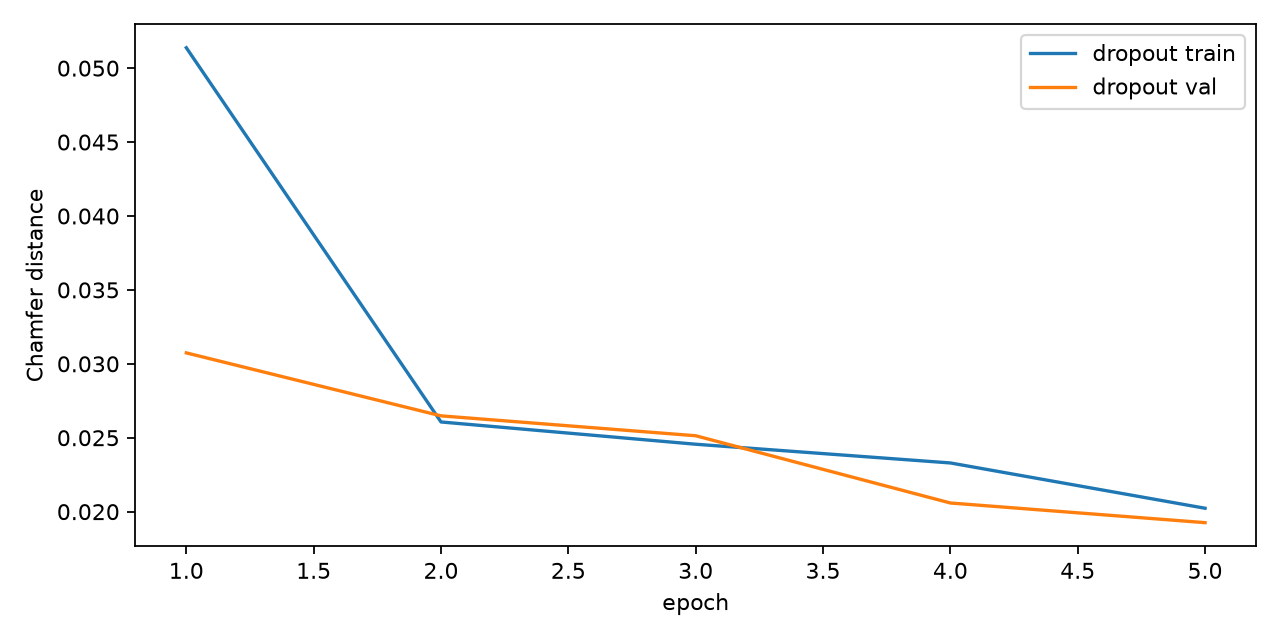
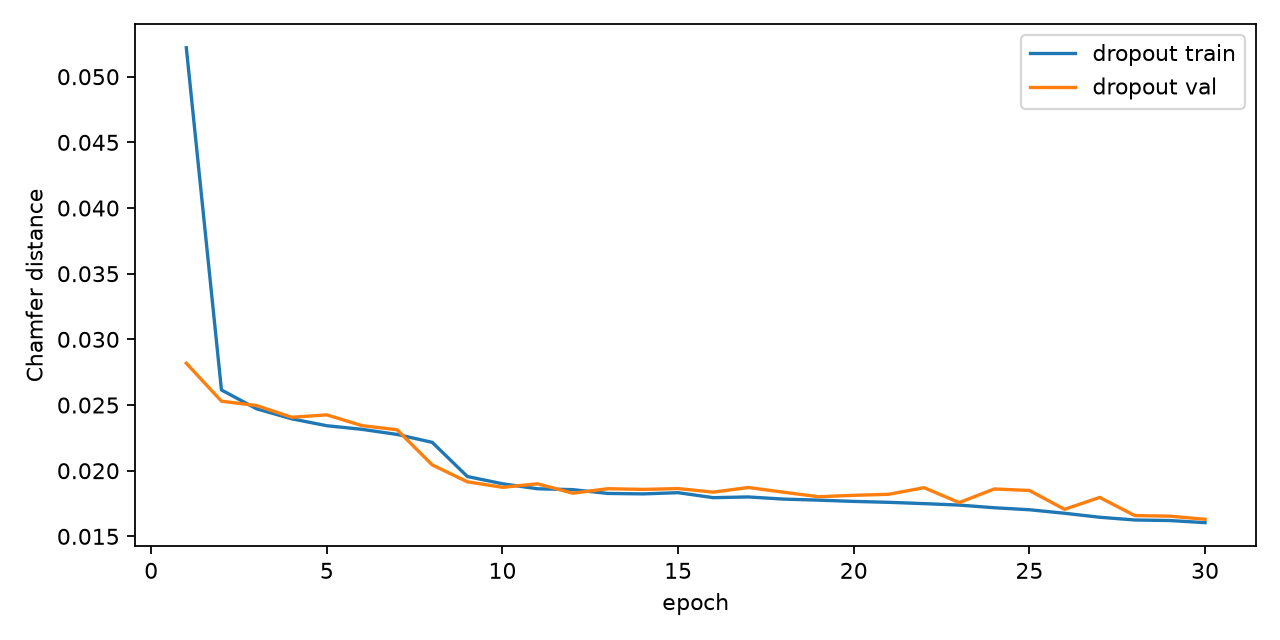
Add ONNX export and config scripts, update GCN results
- export_onnx.py: export the GCN autoencoder to ONNX and check it against PyTorch
- make_config.py: threshold, example IFC files and config.json for the model
- Both find the repo root without __file__, so they also run as notebook cells
- Re-run notebook: updated threshold, metrics and training curves

diff --git a/01_autoencoder/src/make_config.py b/01_autoencoder/src/make_config.py
@@ -1,0 +1,106 @@
+"""Compute the threshold, copy example IFC files and write 01_autoencoder/model/config.json.
+
+Run after export_onnx.py:  python 01_autoencoder/src/make_config.py  (or paste into a notebook cell)
+"""
+
+import json
+import shutil
+import sys
+from pathlib import Path
+
+import numpy as np
+import onnxruntime as ort
+import pandas as pd
+
+# Repo root: __file__ does not exist in a notebook, so walk up from the current folder instead
+try:
+    start = Path(__file__).resolve().parent
+except NameError:
+    start = Path.cwd().resolve()
+REPO = next(p for p in [start, *start.parents] if (p / "01_autoencoder" / "src").is_dir())
+sys.path.insert(0, str(REPO / "01_autoencoder" / "src"))
+import ifc_graph
+from graph_autoencoder import LazyGraphDataset
+
+DATA = REPO / "data"
+OUT = REPO / "01_autoencoder" / "model"
+ANOM = ["IfcStair", "IfcRailing"]       # same anomaly classes as the notebook
+SCORE_POINTS = 256                      # notebook compares the first 256 points (LOSS_POINTS)
+
+sess = ort.InferenceSession(str(OUT / "model.onnx"), providers=["CPUExecutionProvider"])
+split = pd.read_csv(REPO / "01_autoencoder" / "splits" / "ifc_split.csv")
+
+
+def chamfer(a, b):
+    """Chamfer distance: for each point, distance to the closest point of the other cloud (both ways)."""
+    d = ((a[:, None, :] - b[None, :, :]) ** 2).sum(-1)
+    return float(d.min(1).mean() + d.min(0).mean())
+
+
+def run_graph(g):
+    """graph -> ONNX -> (score, latent)."""
+    recon, z = sess.run(None, {"x": g.x.numpy().astype(np.float32),
+                               "edge_index": g.edge_index.numpy().astype(np.int64)})
+    s = chamfer(recon.reshape(-1, 3)[:SCORE_POINTS], g.pos.numpy()[:SCORE_POINTS])
+    return s, z[0]
+
+
+# 1) Threshold = 95th percentile of the score on NORMAL validation objects
+normal_val_ids = split.loc[(split["split"] == "val") & ~split["ifc_class"].isin(ANOM), "object_id"]
+val = LazyGraphDataset(DATA / "ifc_graphs" / "val.pt", normal_val_ids)   # builds one graph at a time
+normal_scores = np.array([run_graph(val[i])[0] for i in range(len(val))])
+thr = float(np.quantile(normal_scores, 0.95))
+print(f"threshold (95th pct of {len(normal_scores)} normal val objects): {thr:.6f}")
+
+# 2) Three example IFC files from the TEST set: 2 normal + 1 anomaly
+ex_dir = OUT / "examples"
+ex_dir.mkdir(parents=True, exist_ok=True)
+for f in ex_dir.glob("*.ifc"):
+    f.unlink()
+test = split[split["split"] == "test"].sort_values("object_id")
+for cls, kind in [("IfcDoor", "normal"), ("IfcWall", "normal"), ("IfcStair", "anomaly")]:
+    row = test[test["ifc_class"] == cls].iloc[0]
+    shutil.copy(DATA / row["path"], ex_dir / f"{kind}_{cls}.ifc")
+
+# 3) config.json: everything the server needs
+from importlib.metadata import version, PackageNotFoundError
+
+
+def pkg_version(name):
+    try:
+        return version(name)
+    except PackageNotFoundError:
+        return "not installed"
+
+
+cfg = {
+    "model_file": "model.onnx",
+    "model_name": "GCN graph autoencoder (data/gcn_autoencoder.pt)",
+    "inputs": {"x": "[1024, 3] float32, normalised xyz of the points",
+               "edge_index": "[2, 16384] int64, kNN edges (16 neighbours)"},
+    "outputs": {"reconstruction": "[1, 1024, 3]", "latent": f"[1, {sess.get_outputs()[1].shape[-1]}]"},
+    "preprocessing": {
+        "function": "ifc_graph.ifc_to_graph(path)",
+        "n_points": ifc_graph.N_POINTS,
+        "k_neighbours": ifc_graph.K_NEIGHBOURS,
+        "seed": ifc_graph.SEED,
+        "notes": "IFC -> mesh in world coordinates -> sample points -> centre + scale -> kNN graph",
+    },
+    "score": "Chamfer distance between reconstruction and input points (first 256 points)",
+    "score_points": SCORE_POINTS,
+    "threshold": thr,
+    "threshold_rule": "95th percentile of the score on normal validation objects",
+    "decision": "score > threshold -> 'unusual object, check it'",
+    "anomaly_classes_used_in_eval": ANOM,
+    "built_with": {"python": sys.version.split()[0], "torch": pkg_version("torch"),
+                   "torch_geometric": pkg_version("torch_geometric"),
+                   "ifcopenshell": ifc_graph.ifcopenshell.version, "onnxruntime": ort.__version__,
+                   "gradio": pkg_version("gradio"), "numpy": np.__version__},
+}
+(OUT / "config.json").write_text(json.dumps(cfg, indent=2))
+print("saved", OUT / "config.json")
+
+# 4) Full check from the raw IFC file (same path as the server)
+for f in sorted(ex_dir.glob("*.ifc")):
+    s, z = run_graph(ifc_graph.ifc_to_graph(f))
+    print(f"{f.name:25s} score {s:.6f}  {'UNUSUAL' if s > thr else 'ok'}   latent size {len(z)}")

diff --git a/01_autoencoder/src/export_onnx.py b/01_autoencoder/src/export_onnx.py
@@ -1,0 +1,79 @@
+"""Export data/gcn_autoencoder.pt to 01_autoencoder/model/model.onnx and check it matches PyTorch.
+
+Run from anywhere:  python 01_autoencoder/src/export_onnx.py  (or paste into a notebook cell)
+"""
+
+import inspect
+import sys
+from pathlib import Path
+
+import numpy as np
+import onnxruntime as ort
+import torch
+from torch_geometric.data import Batch
+
+# Repo root: __file__ does not exist in a notebook, so walk up from the current folder instead
+try:
+    start = Path(__file__).resolve().parent
+except NameError:
+    start = Path.cwd().resolve()
+REPO = next(p for p in [start, *start.parents] if (p / "01_autoencoder" / "src").is_dir())
+sys.path.insert(0, str(REPO / "01_autoencoder" / "src"))
+from graph_autoencoder import GraphAutoencoder, LazyGraphDataset   # P2's model + lazy dataset
+
+DATA = REPO / "data"
+OUT = REPO / "01_autoencoder" / "model"
+OUT.mkdir(parents=True, exist_ok=True)
+
+# 1) Load the trained model (same settings as in the notebook)
+ck = torch.load(DATA / "gcn_autoencoder.pt", map_location="cpu", weights_only=False)
+model = GraphAutoencoder(latent_dim=ck.get("latent_dim", 32), hidden_dim=64)
+model.load_state_dict(ck["model"])
+model.eval()
+
+
+# 2) Wrapper: ONNX only takes plain tensors, so call encode/decode directly
+class OnnxWrapper(torch.nn.Module):
+    def __init__(self, net):
+        super().__init__()
+        self.net = net
+
+    def forward(self, x, edge_index):
+        batch = torch.zeros(x.shape[0], dtype=torch.long)    # one graph
+        z = self.net.encode(x, edge_index, batch)
+        return self.net.decode(z), z
+
+
+# 3) A real graph as example input (only builds the graphs we index)
+val_graphs = LazyGraphDataset(DATA / "ifc_graphs" / "val.pt")
+g0 = val_graphs[0]
+x0 = g0.x.float()
+ei0 = g0.edge_index.long()
+
+kw = dict(input_names=["x", "edge_index"],
+          output_names=["reconstruction", "latent"],
+          dynamic_axes={"edge_index": {1: "n_edges"}},
+          opset_version=17)
+if "dynamo" in inspect.signature(torch.onnx.export).parameters:
+    kw["dynamo"] = False
+
+onnx_path = OUT / "model.onnx"
+with torch.no_grad():
+    torch.onnx.export(OnnxWrapper(model).eval(), (x0, ei0), str(onnx_path), **kw)
+print("exported", onnx_path, round(onnx_path.stat().st_size / 1e6, 2), "MB")
+
+# 4) Check: same graphs through PyTorch (the normal way) and through ONNX
+sess = ort.InferenceSession(str(onnx_path), providers=["CPUExecutionProvider"])
+worst = 0.0
+for g in val_graphs[:5]:
+    with torch.no_grad():
+        r_pt, z_pt = model(Batch.from_data_list([g]))
+    r_ox, z_ox = sess.run(None, {"x": g.x.numpy().astype(np.float32),
+                                 "edge_index": g.edge_index.numpy().astype(np.int64)})
+    d_rec = float(np.abs(r_ox.reshape(-1) - r_pt.numpy().reshape(-1)).max())
+    d_lat = float(np.abs(z_ox.reshape(-1) - z_pt.numpy().reshape(-1)).max())
+    worst = max(worst, d_rec, d_lat)
+    print(f"{g.object_id[:8]}  max diff reconstruction {d_rec:.2e}  latent {d_lat:.2e}")
+
+assert worst < 1e-4, "ONNX and PyTorch disagree -> do not use this file"
+print("ONNX check OK: matches PyTorch")
